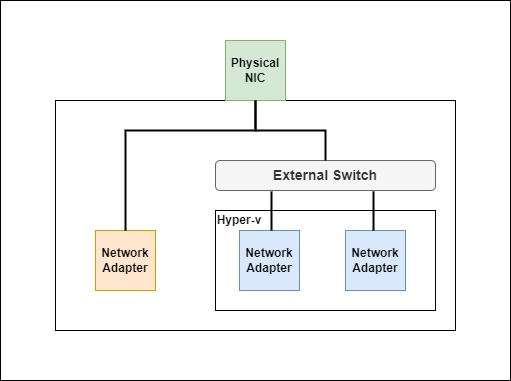
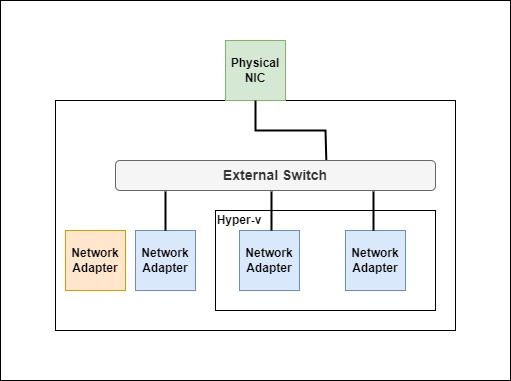
Nested Virtualization

Changed region(s): [[0.1174, 0.3176, 0.499, 0.7795], [0.411, 0.3465, 0.7339, 0.4908]]

diff --git a/Windows Server/17. Hyper-V.md b/Windows Server/17. Hyper-V.md
@@ -14,15 +14,21 @@ Root Partition이라는 특수한 VM 위에서 동작합니다.
 
 # 목차 
 
-[1. 가상스위치](#1-가상-스위치)
+[1. 가상스위치](#1-가상-스위치)  
+[2. 중첩된 가상화 Hyper-v](#2-Nested-Virtualization)
 
 <br>
 
 # 1. 가상 스위치
 ## 1. 외부 네트워크
 
-![](./MD_Images/17_01001.jpg)  
+![](./MD_Images/17_01001.jpg)   
 * 외부 네트워크에 가상 스위치와 브릿지 형태를 만들어 VM에서 외부와 통신해야할 때 주로 사용합니다.
+* 이 부분에서 주요하게 볼 점은 Host Server도 Hyepr-V 이더넷을 사용하는 것을 권장한다는 점입니다.
+* _Hyper-V를 사용하기 전 기존 이더넷에는 IPv4가 비활성화 됩니다._
+
+![](./MD_Images/17_01005.jpg)  
+* _위 옵션을 체크해야 위와 같은 아키텍쳐로 사용 가능합니다._
 
 ## 2. 내부 네트워크
 
@@ -74,3 +80,55 @@ New-VMSwitch -Name "SETSwitch" `
 * `-AllowManagementOS $true`: Hyper-v 호스트 OS도 해당 스위치로 통신 가능 여부(기본 값은 true입니다.)
 
 위 명령어를 통하여 SET 스위치를 생성하여 사용할 수 있게 됩니다.
+
+<br>
+
+# 2. Nested Virtualization
+
+![](./MD_Images/17_02001.jpg)  
+실제로 운영을 하다보면 가상화를 중첩하여 사용하게 될 상황이 많이 발생합니다.  
+예를 들어 Azure VM을 사용 중, VM이 안전모드로 부팅하였을 경우에 다른 VM의 Hyper-v에 연결하여 해당 VM에 부팅 설정 값을 변경한다던지 쓰임새가 생각보다 많습니다.
+
+<br>
+
+## 1. Host 명령어 모음
+
+```powershell
+# 명령어
+Set-VMProcessor -VMName "[Hyper-V VM명]" -ExposeVirtualizationExtensions $true
+
+# 예시
+Set-VMProcessor -VMName "135. Nested Virtualization 2022" -ExposeVirtualizationExtensions $true
+```
+* 위 명령어를 Powershell에서 실행합니다.
+* Hyper-V VM 내부에서 가상화를 허용할 수 있게 변경합니다. (_기본값은 false 입니다._)
+
+<br>
+
+```powershell
+# 명령어
+Set-VMNetworkAdapter -VMName "[Hyper-v VM명]" -MacAddressSpoofing On
+
+# 예시
+Set-VMNetworkAdapter -VMName "135. Nested Virtualization 2022" -MacAddressSpoofing On
+```
+* 위 명령어를 Powershell에서 실행합니다.
+* Hyper-v는 기본적으로 VM의 MAC주소와 일치하지 않는 다른 MAC 주소의 트래픽이 아웃바운드할 경우 스푸핑에 위험이 있다고 판단하여 기본적으로 차단되어 있습니다.
+* 위 명령어를 통하여 중첩된 가상화 VM이 외부 VM과 통신하는 것이 가능해집니다.
+
+## 2. Hyper-V 설치
+Windows Server에서는 Client PC인 10/11과 설치 명령어가 조금 다릅니다.  
+Link: [https://learn.microsoft.com/ko-kr/windows-server/virtualization/hyper-v/get-started/install-hyper-v?tabs=powershell&pivots=windows-server](https://learn.microsoft.com/ko-kr/windows-server/virtualization/hyper-v/get-started/install-hyper-v?tabs=powershell&pivots=windows-server)
+
+<br>
+
+![](./MD_Images/17_02002.jpg)
+```
+Install-WindowsFeature -Name Hyper-V -ComputerName [computer_name] -IncludeManagementTools -Restart
+```
+* 위 명령어를 사용하여 Hyper-v와 GUI 및 Tool을 함께 설치합니다.
+
+<br>
+
+![](./MD_Images/17_02003.jpg)
+* 위와 같이 설정하게 되면 정상적으로 중첩된 가상화 VM이 외부 VM과 통신이 가능하게 됩니다.
